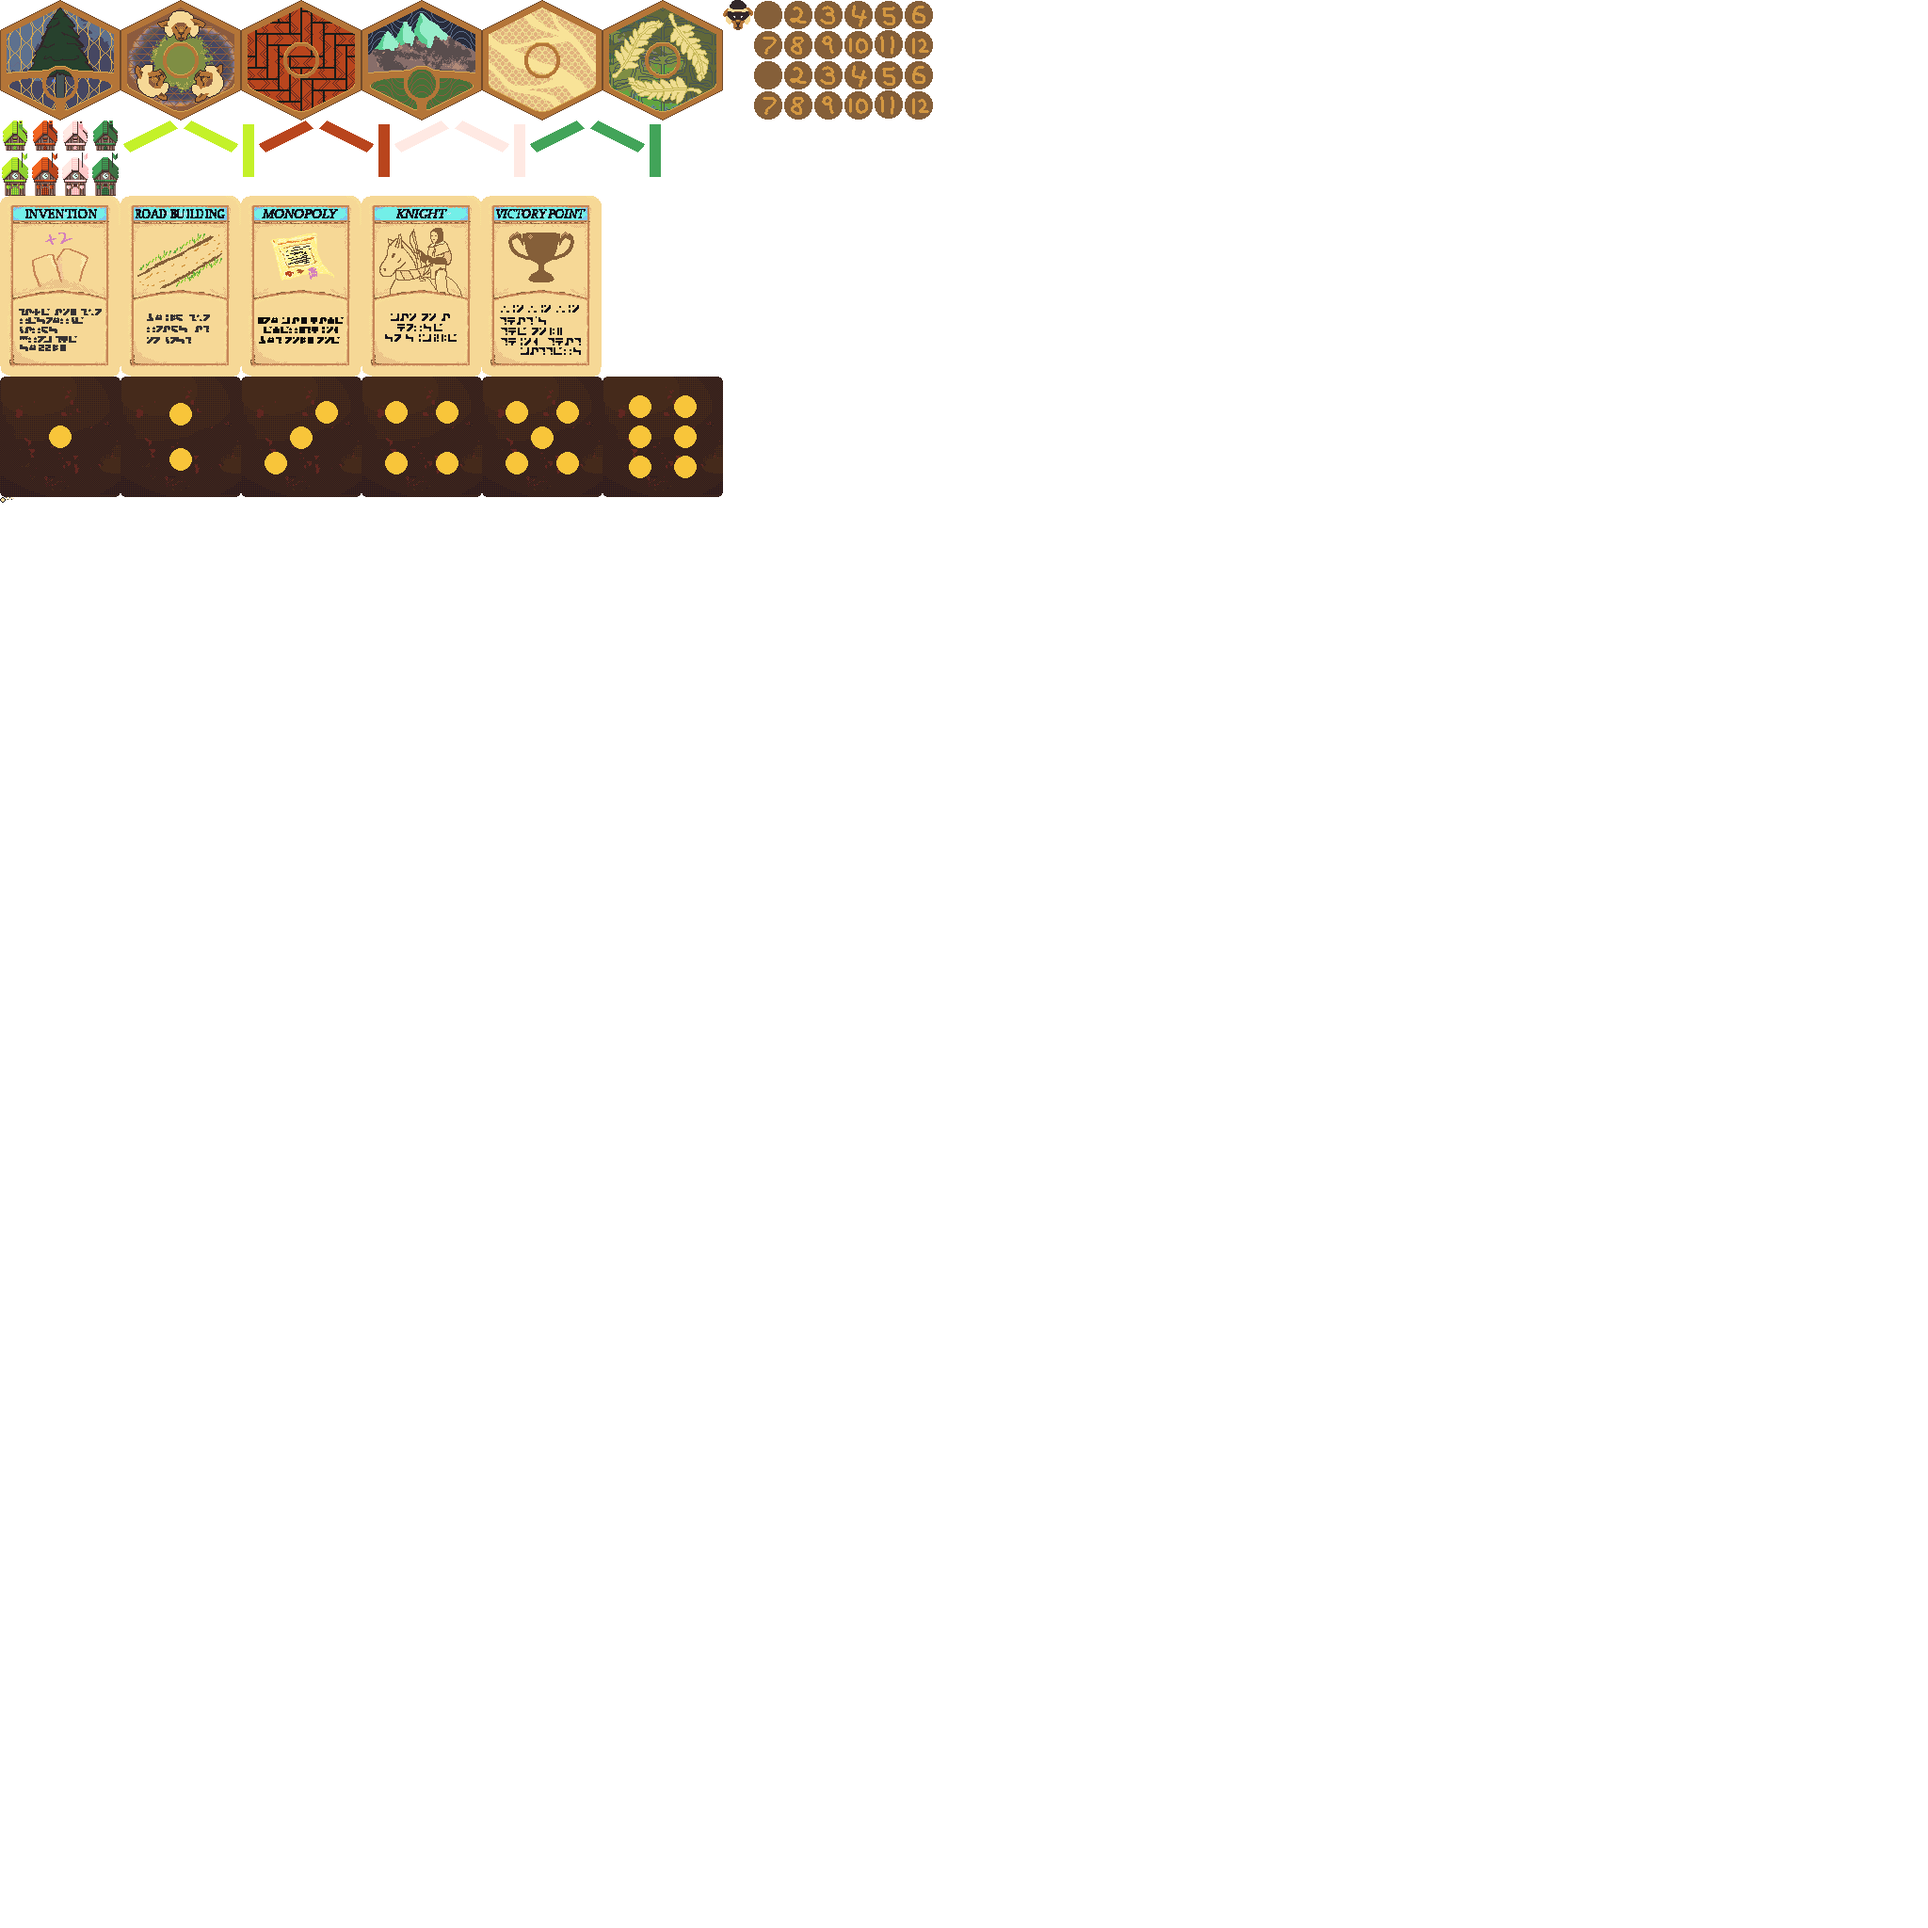
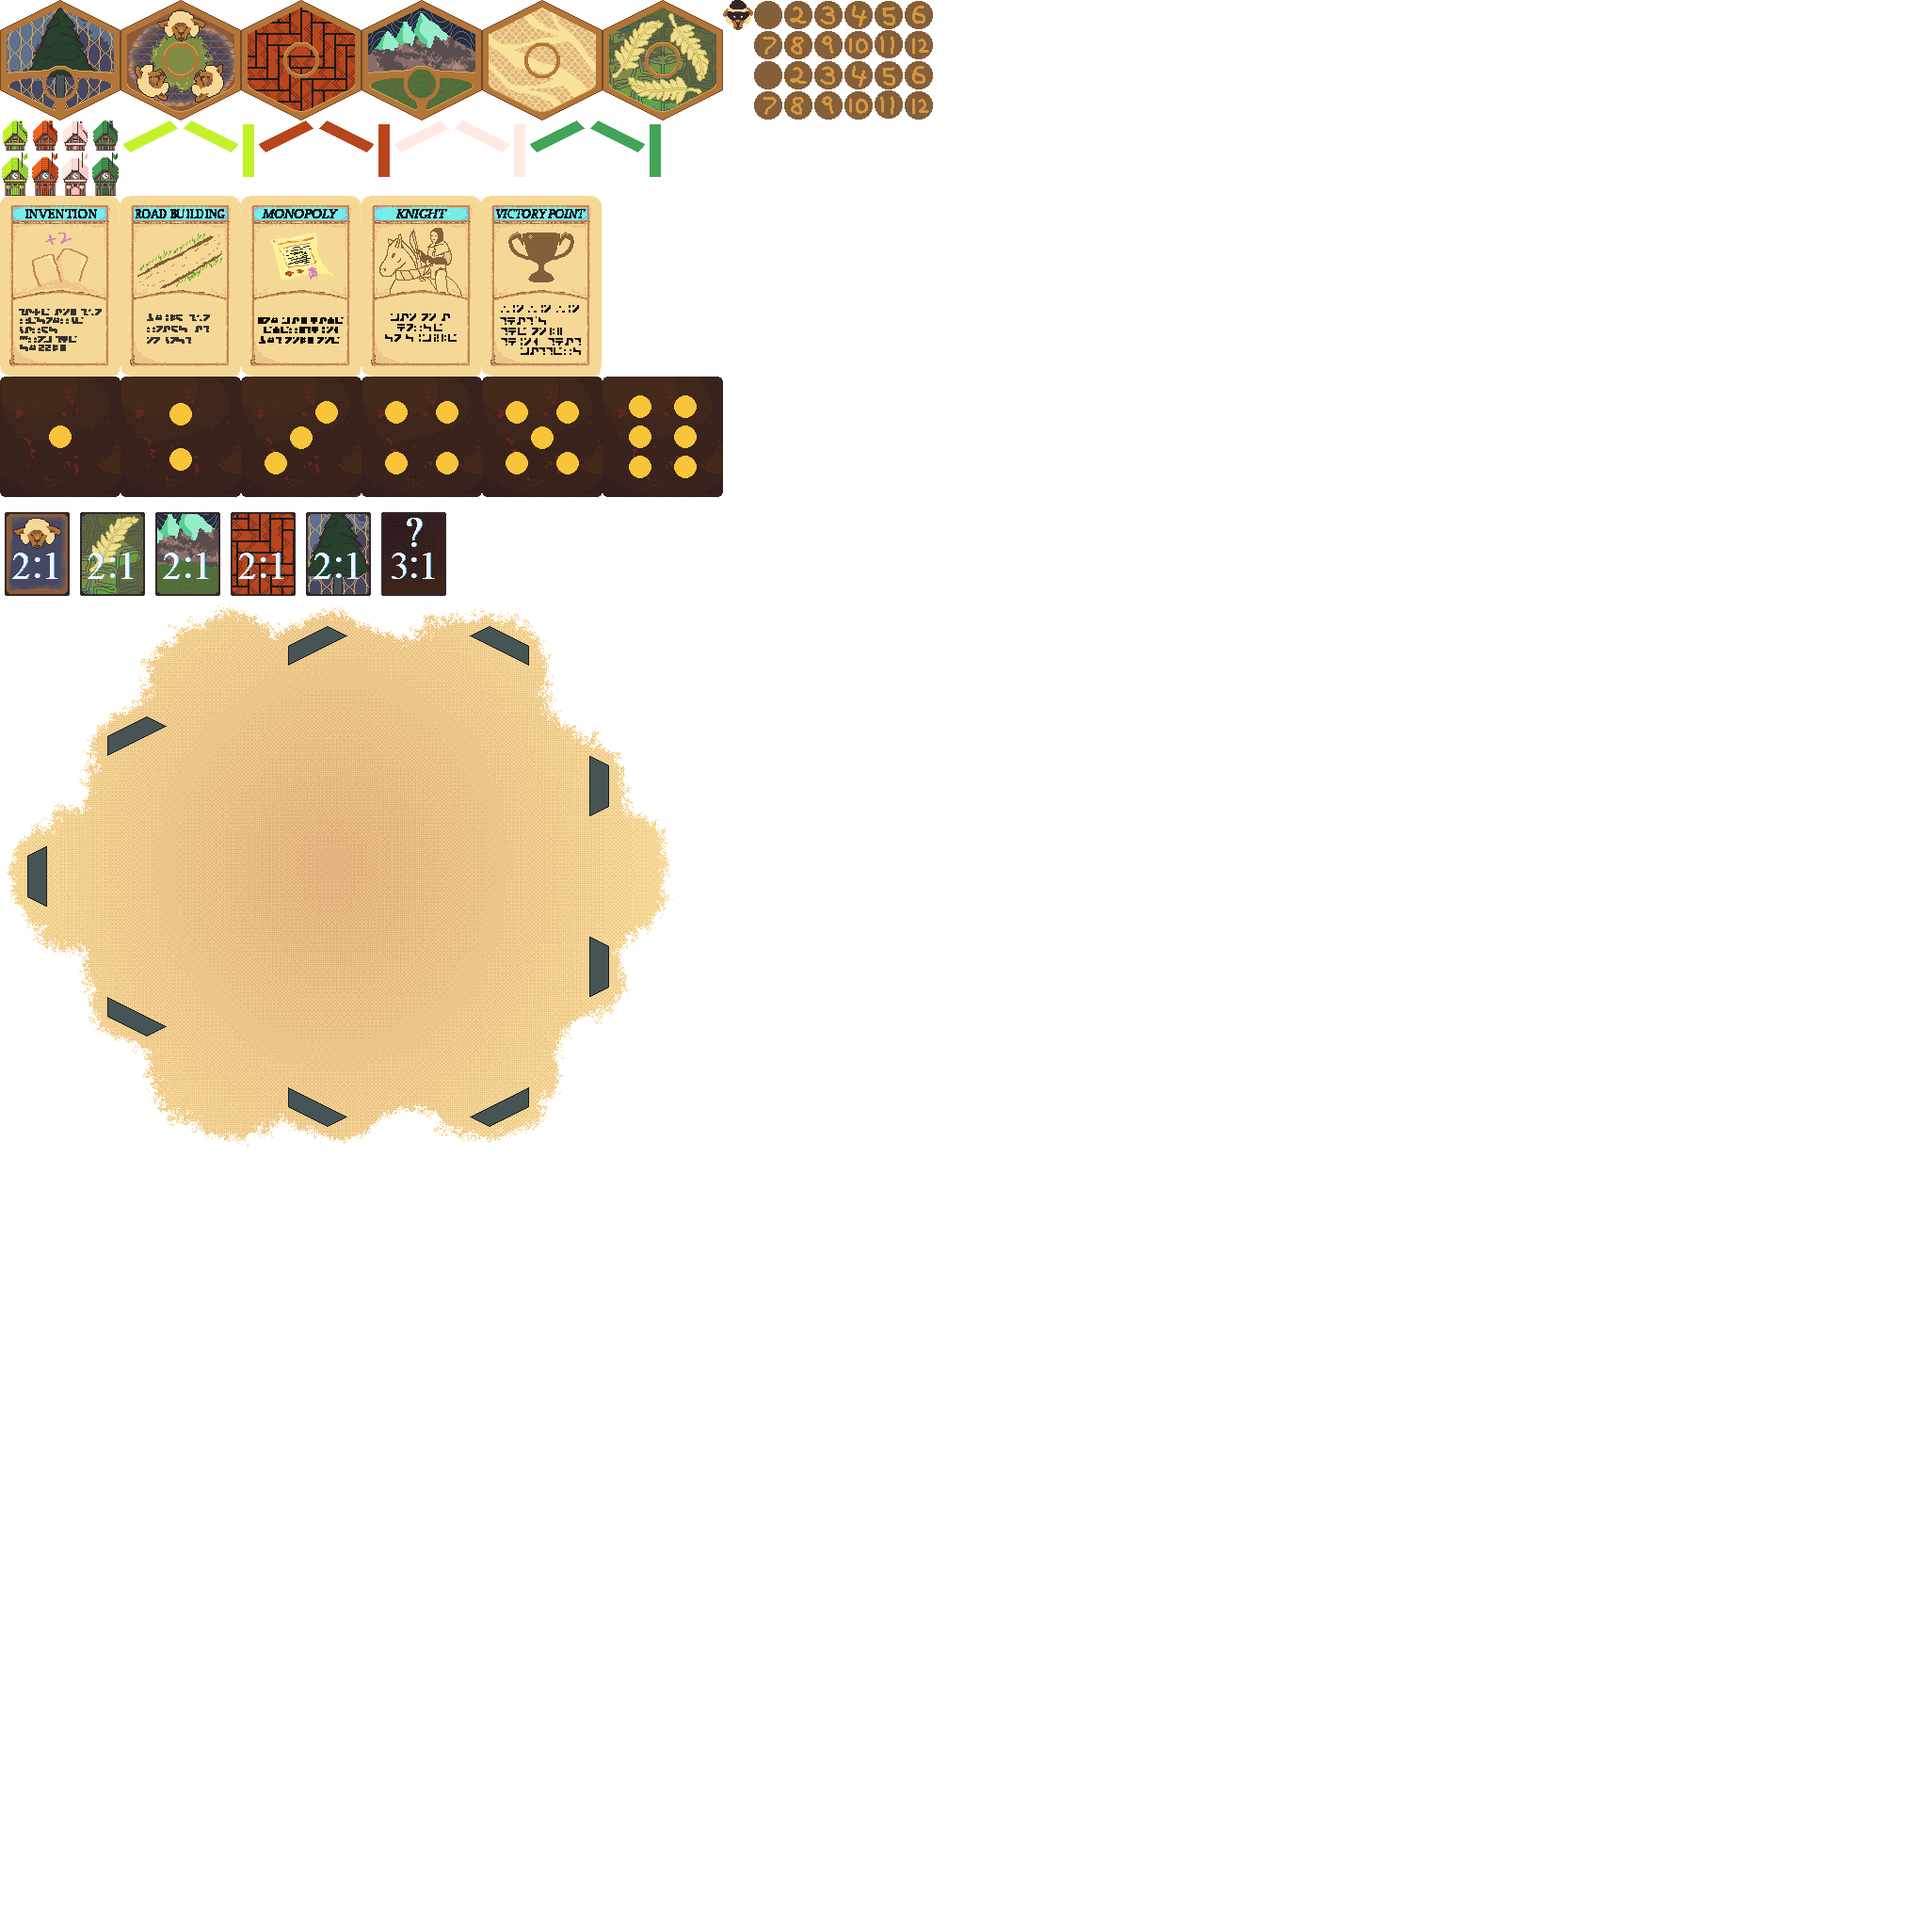
feat: add harbor and background sprite

Changed region(s): [[0.0, 0.25, 0.3438, 0.5938]]

diff --git a/Catan/Source/Game/Board/Board.cs b/Catan/Source/Game/Board/Board.cs
@@ -4,6 +4,7 @@ using Microsoft.Xna.Framework;
 using Microsoft.Xna.Framework.Graphics;
 using Catan.Source.Scenes;
 using HarborModel = Catan.Source.Game.Harbor.Harbor;
+using Catan.Source.Content;
 
 namespace Catan.Source.Game.Board
 {    
@@ -89,7 +90,7 @@ namespace Catan.Source.Game.Board
         {
             foreach (Tile tile in Tiles)
             {
-                tile.Draw(gameTime, spriteBatch);
+                //tile.Draw(gameTime, spriteBatch);
             }
         }
 
@@ -104,6 +105,38 @@ namespace Catan.Source.Game.Board
             }
         }
 
+        public override void Update(GameTime gameTime) { }
+    }
+
+    public class BoardBackground : GameObject
+    {
+        private Atlas atlas;
+
+        public BoardBackground(float x, float y, Atlas atlas)
+            : base(x, y)
+        {
+            this.atlas = atlas;
+        }
+
+        public override void OnSubscribe(Scene scene)
+        {
+            base.OnSubscribe(scene);
+        }
+
+        public override void Draw(GameTime gameTime, SpriteBatch spriteBatch)
+        {
+            spriteBatch.Draw(
+                atlas.Texture,
+                new Vector2(this.X, this.Y),
+                Atlas.GetRectangle(AtlasSpriteId.Background),
+                Color.White, 0.0f,
+                new Vector2(
+                    Atlas.GetRectangle(AtlasSpriteId.BackgroundOrigin).X,
+                    Atlas.GetRectangle(AtlasSpriteId.BackgroundOrigin).Y
+                    ),
+                1.0f, SpriteEffects.None, 0.0f
+            );
+        }
         public override void Update(GameTime gameTime) { }
     }
 }

diff --git a/Catan/Source/Content/Atlas.cs b/Catan/Source/Content/Atlas.cs
@@ -24,6 +24,10 @@ namespace Catan.Source.Content
         ButtonEdgeRight, ButtonEdgeTop, ButtonEdgeBot, ButtonFill,
 
         DiceFace1, DiceFace2, DiceFace3, DiceFace4, DiceFace5, DiceFace6,
+
+        Background, BackgroundOrigin,
+
+        WoolTradePopup, WheatTradePopup, OreTradePopup, BrickTradePopup, WoodTradePopup, UniversalTradePopup
     }
 
     public enum AtlasPlayerSprite
@@ -94,6 +98,15 @@ namespace Catan.Source.Content
             [AtlasSpriteId.ButtonEdgeTop] = new Rectangle(10, 528, 1, 3),
             [AtlasSpriteId.ButtonEdgeBot] = new Rectangle(12, 528, 1, 3),
             [AtlasSpriteId.ButtonFill] = new Rectangle(14, 529, 1, 1),
+            [AtlasSpriteId.Background] = new Rectangle(0, 640, 720, 576),
+            [AtlasSpriteId.BackgroundOrigin] = new Rectangle(178, 35, 1, 1),
+            [AtlasSpriteId.WoolTradePopup] = new Rectangle(0, 544, 80, 96),
+            [AtlasSpriteId.WheatTradePopup] = new Rectangle(80, 544, 80, 96),
+            [AtlasSpriteId.OreTradePopup] = new Rectangle(160, 544, 80, 96),
+            [AtlasSpriteId.BrickTradePopup] = new Rectangle(240, 544, 80, 96),
+            [AtlasSpriteId.WoodTradePopup] = new Rectangle(320, 544, 80, 96),
+            [AtlasSpriteId.UniversalTradePopup] = new Rectangle(400, 544, 80, 96),
+
         };
         private static readonly Dictionary<int, Dictionary<AtlasPlayerSprite, AtlasSpriteId>> _playerSpriteMappings = new Dictionary<int, Dictionary<AtlasPlayerSprite, AtlasSpriteId>>
         {

diff --git a/Catan/Source/Scenes/GameScene/GameScene.cs b/Catan/Source/Scenes/GameScene/GameScene.cs
@@ -10,6 +10,7 @@ using Catan.Source.Game.Debug;
 using Catan.Source.Game.Player;
 using Catan.Source.Scenes.Game;
 using GameBank = Catan.Source.Game.Bank.Bank;
+using Catan.Source.Game;
 
 
 namespace Catan.Source.Scenes
@@ -23,6 +24,8 @@ namespace Catan.Source.Scenes
 
         public GameBank Bank { get; }
         public Board Board { get; private set; }
+
+        public BoardBackground Background;
         public DiceRoll LastDiceRoll { get; set; }
 
         public List<Player> _players;
@@ -54,9 +57,20 @@ namespace Catan.Source.Scenes
 
             Atlas = new Atlas(Game1.ContentManager);
 
+            
+
             StandardRandomBoardFactory factory = new(Atlas, 0, 0);
             Board = factory.CreateBoard(this);
+
+
+            Background = new BoardBackground(Board.Tiles[0].X, Board.Tiles[0].Y, Atlas);
+            Subscribe(Background);
+
+
             Subscribe(Board);
+
+
+            
 
             DiceRollControl diceRollControl = new(Atlas, this);
             Subscribe(diceRollControl);
